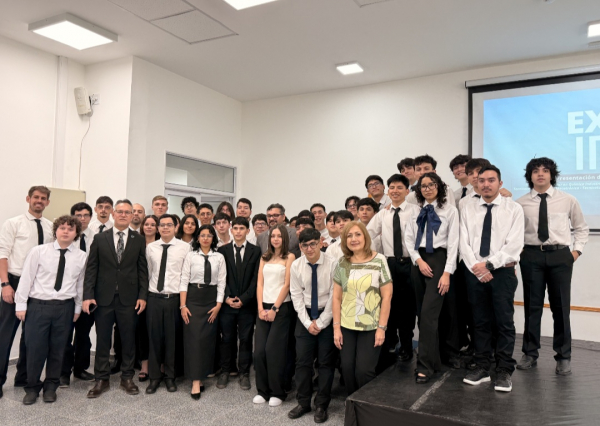
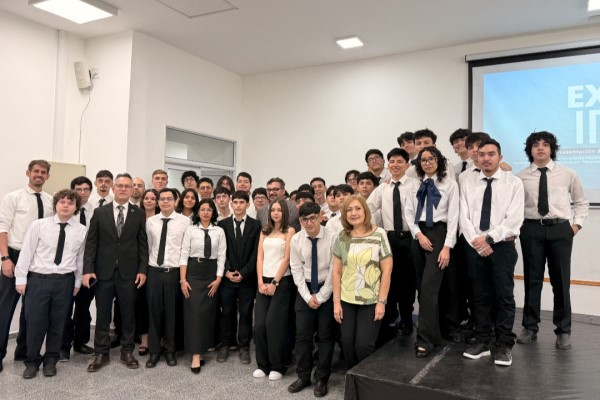
Agregado de la herramienta carrusel

diff --git a/assets/index.html b/assets/index.html
@@ -13,12 +13,12 @@
 
 <body>
   <div>
-
-    <header class="p-1 bg-warning">
+    <header class="card border-3   p-1">
       <div class="container">
-        <div class="d-flex flex-wrap-reverse align-items-center justify-content-end">
-          <img src="/assets/img/geo-alt.svg" alt="Simbolo de ubicación">
-          <p class="mb-0">Ruta Nac. 81 km. 1190</p>
+        <div class="d-flex flex-wrap-reverse align-items-center justify-content-between">
+          <p class="mb-0 text-black">Dr. Alberto Marcelo Zorrilla</p>
+          <p class="mb-0 text-black"><img class="ruta" src="/assets/img/geo-alt.svg" alt="Simbolo de ubicación">Ruta
+            Nac. 81 km. 1190</p>
         </div>
       </div>
     </header>
@@ -27,33 +27,25 @@
       <div class="container">
         <img class="navbar-brand" src="/assets/img/logo.png" alt="Logo" height="60">
 
-        <button class="navbar-toggler" data-bs-toggle="collapse" data-bs-target="#miMenu">
+        <button class="navbar-toggler" type="button" data-bs-toggle="collapse" data-bs-target="#miMenu"
+          aria-controls="miMenu" aria-expanded="false" aria-label="Abrir menú">
           <span class="navbar-toggler-icon"></span>
         </button>
 
         <div id="miMenu" class="collapse navbar-collapse ms-auto">
           <ul class="navbar-nav ms-auto">
             <li class="nav-item">
-              <a class="nav-link" href="/assets/index.html" target="_blank">INICIO</a>
+              <a class="nav-link text-black" href="/assets/index.html" target="_blank">INICIO</a>
             </li>
             <li class="nav-item">
-              <a class="nav-link" href="/assets/institucional.html" target="_blank">INSTITUCIONAL</a>
+              <a class="nav-link text-black" href="/assets/institucional.html" target="_blank">INSTITUCIONAL</a>
             </li>
             <li class="nav-item">
-              <a class="nav-link" href="/assets/carreras.html" target="_blank">CARRERAS</a>
+              <a class="nav-link text-black" href="/assets/carreras.html" target="_blank">CARRERAS</a>
             </li>
             <li class="nav-item">
-              <a class="nav-link" href="/assets/contactos.html" target="_blank">CONTACTOS</a>
+              <a class="nav-link text-black" href="/assets/contactos.html" target="_blank">CONTACTOS</a>
             </li>
-            <div class="text-end">
-              <button type="button" class="btn-personalizado">
-                <a href="">
-                  <font dir="auto" style="vertical-align: inherit;">
-                    <font dir="auto" style="vertical-align: inherit;">Inscribirse</font>
-                  </font>
-                </a>
-              </button>
-            </div>
           </ul>
         </div>
       </div>
@@ -66,7 +58,52 @@
           <img class="logo-simple" src="/assets/img/otro logo.png" alt="Logo Simple">
           <img class="titulo" src="/assets/img/Título.png" alt="Título">
           <h1>Bienvenidos</h1>
-          <p></p>
+          <section>
+            <div id="carouselExampleCaptions" class="carousel slide">
+              <div class="carousel-indicators">
+                <button type="button" data-bs-target="#carouselExampleCaptions" data-bs-slide-to="0" class="active"
+                  aria-current="true" aria-label="Slide 1"></button>
+                <button type="button" data-bs-target="#carouselExampleCaptions" data-bs-slide-to="1"
+                  aria-label="Slide 2"></button>
+                <button type="button" data-bs-target="#carouselExampleCaptions" data-bs-slide-to="2"
+                  aria-label="Slide 3"></button>
+              </div>
+              <div class="carousel-inner">
+                <div class="carousel-item active">
+                  <img src="/assets/img/imagen 1.jpeg" class="d-block w-50">
+                  <div class="carousel-caption d-none d-md-block">
+                    <h5>First slide label</h5>
+                    <p>Some representative placeholder content for the first slide.</p>
+                  </div>
+                </div>
+                <div class="carousel-item">
+                  <img src="/assets/img/imagen 2.jpg" class="d-block w-50">
+                  <div class="carousel-caption d-none d-md-block">
+                    <h5>Second slide label</h5>
+                    <p>Some representative placeholder content for the second slide.</p>
+                  </div>
+                </div>
+                <div class="carousel-item">
+                  <img src="/assets/img/imagen 3.jpeg" class="d-block w-50">
+                  <div class="carousel-caption d-none d-md-block">
+                    <h5>Third slide label</h5>
+                    <p>Some representative placeholder content for the third slide.</p>
+                  </div>
+                </div>
+              </div>
+              <button class="carousel-control-prev" type="button" data-bs-target="#carouselExampleCaptions"
+                data-bs-slide="prev">
+                <span class="carousel-control-prev-icon" aria-hidden="true"></span>
+                <span class="visually-hidden">Previous</span>
+              </button>
+              <button class="carousel-control-next" type="button" data-bs-target="#carouselExampleCaptions"
+                data-bs-slide="next">
+                <span class="carousel-control-next-icon" aria-hidden="true"></span>
+                <span class="visually-hidden">Next</span>
+              </button>
+            </div>
+          </section>
+
           <p>El Instituto Politécnico Formosa es una institución educativa pública de nivel superior orientada a la
             formación técnica y tecnológica de calidad. Creado con el objetivo de responder a las demandas del sector
             productivo y promover el desarrollo regional, el instituto se destaca por su enfoque innovador que integra
@@ -90,21 +127,6 @@
       </div>
     </main>
 
-    <!-- <footer class="text-dark pt-5 pb-4">
-      <div class="container text-center text-md-start">
-        <div class="row text-center text-md-start">
-          <div class="col-md-3 col-lg-3 col-xl-3 mx-auto mt-3">
-            <h5 class="text-uppercase mb-4 font-weight-bold">Hecho por:</h5>
-            <hr class="mb-2">
-            <p>Rojas,Gonzalo Omar</p>
-          </div>
-          <p>© 2026. Todos los derechos reservados.</p>
-        </div>
-        <div class="row text-center text-md-start">
-          <img class="logo-alternativo" src="/assets/img/logo verde.png" alt="Logo alternativo">
-        </div>
-      </div>
-    </footer> -->
 
     <footer class="text-white">
       <div class="container text-center text-md-start">
@@ -121,7 +143,7 @@
         <div class="row align-items-center py-0">
 
           <!-- Texto -->
-          <div class="col-md-6 text-center text-md-start">
+          <div class="col-md-6 mb-0 text-center text-md-start">
             <p>© 2026. <strong>Todos los derechos reservados.</strong></p>
           </div>
 

diff --git a/assets/css/style.css b/assets/css/style.css
@@ -37,7 +37,17 @@ footer {
 
 .btn-personalizado {
     background-color: #147414;
-    color: white;
     border-radius: 10px;
-    padding: 10px;
+}
+
+.navbar-toggler {
+    border-radius: 10px;
+}
+
+.navbar-toggler:hover {
+    background-color: #ffffff;
+}
+
+a:hover {
+    background-color: white;
 }
